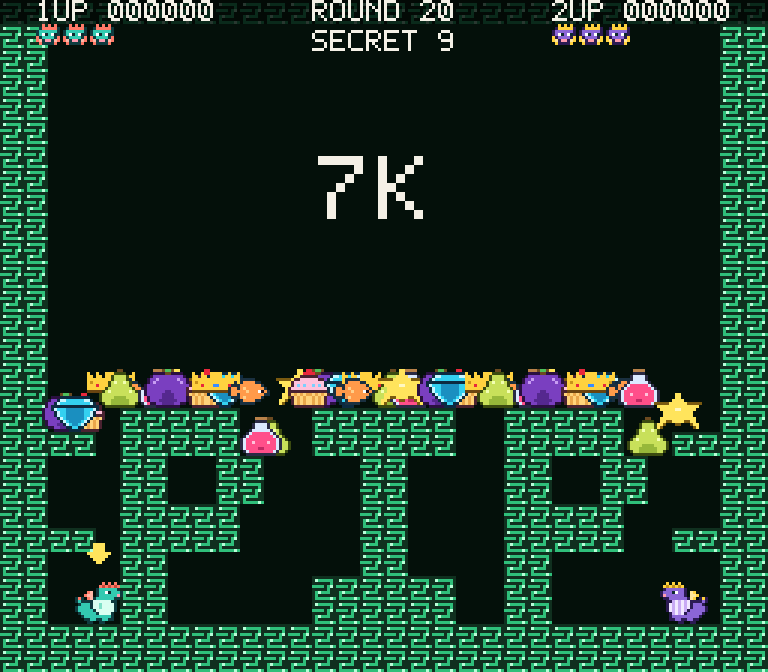
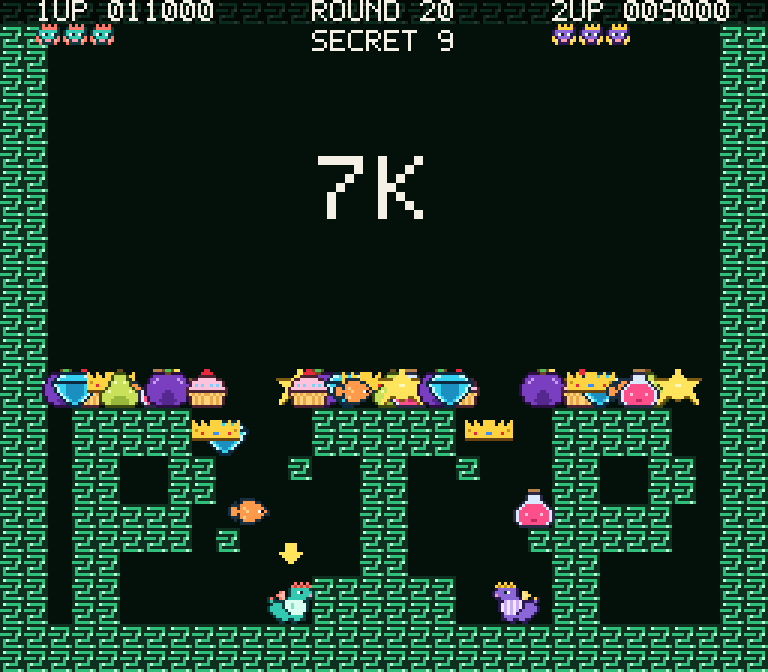
fix: secret rooms have no one-way wells
Wider channels with single-tile stepping ledges leave a free drop lane, and
the reachability test is now a strong-connectivity check on the standing
graph (with a regression fixture for the old PIP layout).

diff --git a/shared/test/secrets.test.ts b/shared/test/secrets.test.ts
@@ -372,6 +372,7 @@ describe("entering and the room", () => {
   it("players can still move and blow harmless bubbles in the room", () => {
     const sim = enterRoom(mkLevels(45));
     const x = sim.state.players[1]!.x;
+    sim.state.players[1]!.y = 60; // open air: a bubble blown on the floor would hit a letter
     run(sim, 10, [0, BTN.F | BTN.L]);
     expect(sim.state.bubbles.length).toBeGreaterThan(0);
     expect(sim.state.players[1]!.x).toBeLessThan(x);
@@ -549,28 +550,46 @@ describe("restore", () => {
 });
 
 /**
- * Reachability by real physics: starting from the spawn points, try short input policies (jump or not,
- * a direction for t1 ticks then another) through `moveBody` exactly as `stepPlayer` drives it, and record every
- * standing position (x in whole px, y exactly on a tile top). Positions closer than 2 px share one expansion.
+ * Standing-position graph by real physics. Nodes are positions where a body rests (integer x, y on a tile top);
+ * edges are what one input policy (walk, or jump then a direction for t1 ticks and another after) reaches
+ * through the sim's own `moveBody`, so walking, jumping, dropping and falling are all covered. `jumpVel` lets
+ * the caller use a weaker jump to demand a safety margin.
  */
-function reachableStands(lv: LevelData, starts: { x: number; y: number }[]): Map<string, { x: number; y: number }> {
-  const seen = new Map<string, { x: number; y: number }>();
-  const expanded = new Set<string>();
-  const queue: { x: number; y: number }[] = [];
-  const add = (x: number, y: number): void => {
-    const k = `${x},${y}`;
-    if (seen.has(k)) return;
-    seen.set(k, { x, y });
-    const bucket = `${Math.floor(x / 2)},${y}`;
-    if (expanded.has(bucket)) return;
-    expanded.add(bucket);
-    queue.push({ x, y });
+interface StandGraph {
+  nodes: Map<string, { x: number; y: number }>;
+  /** Reachable from a spawn. */
+  forward: Set<string>;
+  /** Of those, the ones that can get back to a spawn: the spawn's strongly connected component. */
+  component: Set<string>;
+  /** Reachable but unable to return (one-way traps). */
+  trapped: string[];
+  maxRise: number;
+}
+
+function analyseStands(lv: LevelData, starts: { x: number; y: number }[], jumpVel: number = TUNING.jumpVel): StandGraph {
+  const nodes = new Map<string, { x: number; y: number }>();
+  const out = new Map<string, Set<string>>();
+  const queue: string[] = [];
+  const key = (x: number, y: number): string => `${x},${y}`;
+  const add = (x: number, y: number, from?: string): void => {
+    const k = key(x, y);
+    if (!nodes.has(k)) {
+      nodes.set(k, { x, y });
+      queue.push(k);
+    }
+    if (from !== undefined && from !== k) {
+      let set = out.get(from);
+      if (!set) out.set(from, (set = new Set()));
+      set.add(k);
+    }
   };
+  const startKeys = starts.map((s) => key(s.x, s.y));
   for (const s of starts) add(s.x, s.y);
   const dirs = [-1, 0, 1];
-  const t1s = [0, 10, 20, 30, 40, 50];
+  const t1s = [0, 2, 4, 6, 8, 10, 12, 14, 16, 20, 30, 40, 50];
   const body = { x: 0, y: 0, vx: 0, vy: 0, onGround: true };
-  const simulate = (x: number, y: number, jump: boolean, d1: number, t1: number, d2: number, total: number): void => {
+  let maxRise = 0;
+  const simulate = (from: string, x: number, y: number, jump: boolean, d1: number, t1: number, d2: number, total: number): void => {
     body.x = x;
     body.y = y;
     body.vx = 0;
@@ -579,50 +598,97 @@ function reachableStands(lv: LevelData, starts: { x: number; y: number }[]): Map
     for (let t = 0; t < total; t++) {
       body.vx = (t < t1 ? d1 : d2) * TUNING.walkSpeed;
       if (jump && t === 0) {
-        body.vy = TUNING.jumpVel;
+        body.vy = jumpVel;
         body.onGround = false;
       }
       moveBody(lv, body, PLAYER_SIZE);
       if (body.onGround) {
-        add(Math.round(body.x), body.y);
+        maxRise = Math.max(maxRise, y - body.y);
+        add(Math.round(body.x), body.y, from);
         if (jump) return;
       }
     }
   };
-  while (queue.length > 0) {
-    const s = queue.pop()!;
-    for (const d of dirs) simulate(s.x, s.y, false, d, 200, d, 200);
-    for (const d1 of dirs) for (const d2 of dirs) for (const t1 of t1s) simulate(s.x, s.y, true, d1, t1, d2, 160);
+  for (let i = 0; i < queue.length; i++) {
+    const k = queue[i]!;
+    const s = nodes.get(k)!;
+    for (const d of dirs) simulate(k, s.x, s.y, false, d, 200, d, 200);
+    for (const d1 of dirs) for (const d2 of dirs) for (const t1 of t1s) simulate(k, s.x, s.y, true, d1, t1, d2, 160);
   }
-  return seen;
+  const forward = new Set(nodes.keys());
+  const back = new Map<string, string[]>();
+  for (const [from, tos] of out) {
+    for (const to of tos) {
+      const list = back.get(to);
+      if (list) list.push(from);
+      else back.set(to, [from]);
+    }
+  }
+  const component = new Set<string>(startKeys);
+  const stack = [...startKeys];
+  while (stack.length > 0) {
+    for (const prev of back.get(stack.pop()!) ?? []) {
+      if (!component.has(prev)) {
+        component.add(prev);
+        stack.push(prev);
+      }
+    }
+  }
+  const trapped = [...forward].filter((k) => !component.has(k));
+  return { nodes, forward, component, trapped, maxRise };
 }
 
+/** Height a free jump with `vel` gains, measured by simulating it. */
+function jumpApex(vel: number): number {
+  const floorY = 26 * TILE - PLAYER_SIZE / 2;
+  const body = { x: 60, y: floorY, vx: 0, vy: vel, onGround: false };
+  let top = body.y;
+  for (let t = 0; t < 120; t++) {
+    moveBody(TEST_LEVEL, body, PLAYER_SIZE);
+    top = Math.min(top, body.y);
+  }
+  return floorY - top;
+}
+/** The jump the layouts must be solvable with: at least 4 px weaker than the real one. */
+const MARGIN_JUMP = TUNING.jumpVel + 0.15;
+const startsOf = (room: (typeof SECRET_ROOMS)[number]) =>
+  room.spawn.map((sp) => ({ x: sp.col * TILE + TILE / 2, y: sp.row * TILE + 1 }));
+
 describe("reachability", () => {
+  it("the margin jump really is at least 4 px lower than the real jump", () => {
+    expect(jumpApex(TUNING.jumpVel) - jumpApex(MARGIN_JUMP)).toBeGreaterThanOrEqual(4);
+  });
+
   for (const [i, name] of names.entries()) {
-    it(`room ${name}: every treasure and every usable ledge is reachable by walking and jumping`, () => {
+    it(`room ${name}: the standing graph is strongly connected and every treasure is collectable`, () => {
       const room = SECRET_ROOMS[i]!;
       const lv = room.level;
-      const reach = reachableStands(
-        lv,
-        room.spawn.map((s) => ({ x: s.col * TILE + TILE / 2, y: s.row * TILE + 1 })),
-      );
-      const stands = [...reach.values()];
+      const g = analyseStands(lv, startsOf(room), MARGIN_JUMP);
+      expect(g.trapped.slice(0, 10)).toEqual([]);
+      expect(g.maxRise).toBeLessThanOrEqual(jumpApex(TUNING.jumpVel) - 4);
+      const stands = [...g.component].map((k) => g.nodes.get(k)!);
 
-      // Treasure that has come to rest.
+      // Treasure that has come to rest sits near a standing position of the component.
       const sim = enterRoom(mkLevels(45), [20, 30, 40][i]!);
       run(sim, 300);
-      const reachItem = (t: { x: number; y: number }): boolean =>
-        stands.some((s) => Math.abs(s.x - t.x) < (TUNING.itemSize + PLAYER_SIZE) / 2 && Math.abs(s.y - t.y) < (TUNING.itemSize + PLAYER_SIZE) / 2);
-      const unreachable = treasure(sim.state).filter((t) => !reachItem(t));
-      expect(unreachable.map((t) => `${t.x},${t.y}`)).toEqual([]);
+      const reach = (TUNING.itemSize + PLAYER_SIZE) / 2;
+      const stranded = treasure(sim.state).filter(
+        (t) => !stands.some((s) => Math.abs(s.x - t.x) < reach && Math.abs(s.y - t.y) < reach),
+      );
+      expect(stranded.map((t) => `${t.x},${t.y}`)).toEqual([]);
 
-      // Every standing run (2+ adjacent tile tops with 2 empty rows above) outside sealed pockets.
+      // Every standing run (2+ adjacent tile tops with 2 empty rows above) outside sealed pockets is in the component.
+      // "Open" = covered by a 2x2 empty block reachable from the top-left through 2x2 blocks (slits and sealed pockets are not).
+      const fat = (x: number, y: number): boolean =>
+        x >= 2 && x + 1 < GRID_W - 2 && y >= 0 && y + 1 < GRID_H && !isSolid(lv, x, y) && !isSolid(lv, x + 1, y) && !isSolid(lv, x, y + 1) && !isSolid(lv, x + 1, y + 1);
+      const seen = new Set<string>();
       const open = new Set<string>();
       const stack: [number, number][] = [[2, 1]];
       while (stack.length > 0) {
         const [x, y] = stack.pop()!;
-        if (x < 2 || x >= GRID_W - 2 || y < 0 || y >= GRID_H || isSolid(lv, x, y) || open.has(`${x},${y}`)) continue;
-        open.add(`${x},${y}`);
+        if (!fat(x, y) || seen.has(`${x},${y}`)) continue;
+        seen.add(`${x},${y}`);
+        for (const [cx, cy] of [[x, y], [x + 1, y], [x, y + 1], [x + 1, y + 1]] as const) open.add(`${cx},${cy}`);
         stack.push([x + 1, y], [x - 1, y], [x, y + 1], [x, y - 1]);
       }
       const standable = (tx: number, ty: number): boolean =>
@@ -637,19 +703,57 @@ describe("reachability", () => {
         }
       }
       expect(missed).toEqual([]);
-    }, 60000);
+    }, 120000);
   }
 });
 
 describe("reachability checker sanity", () => {
-  it("reaches a letter top but not a platform floating far above everything (so the check can fail)", () => {
+  it("reaches a letter top but not a platform floating far above everything", () => {
     const room = SECRET_ROOMS[0];
-    const starts = room.spawn.map((sp) => ({ x: sp.col * TILE + TILE / 2, y: sp.row * TILE + 1 }));
-    const tiles = room.level.tiles.map((row, y) => (y === 6 ? row.slice(0, 14) + "####" + row.slice(18) : row));
-    const reach = [...reachableStands({ ...room.level, tiles }, starts).values()];
-    expect(reach.some((p) => p.y === 17 * TILE - PLAYER_SIZE / 2)).toBe(true);
-    expect(reach.some((p) => p.y === 6 * TILE - PLAYER_SIZE / 2)).toBe(false);
-  }, 60000);
+    const tiles = room.level.tiles.map((r, y) => (y === 6 ? r.slice(0, 14) + "####" + r.slice(18) : r));
+    const g = analyseStands({ ...room.level, tiles }, startsOf(room), MARGIN_JUMP);
+    const ys = [...g.nodes.values()].map((p) => p.y);
+    expect(ys).toContain(17 * TILE - PLAYER_SIZE / 2);
+    expect(ys).not.toContain(6 * TILE - PLAYER_SIZE / 2);
+  }, 120000);
+
+  it("reports a deep well as a trap (reachable but impossible to leave)", () => {
+    // Two 9-tile towers with a 2-wide channel between them; the left side has stepping ledges up.
+    const rows: string[] = [];
+    for (let y = 0; y < GRID_H; y++) {
+      const r = Array.from({ length: GRID_W }, (_, x) => (y === 0 || y >= GRID_H - 2 || x < 2 || x >= GRID_W - 2 ? "#" : "."));
+      if (y >= 17 && y <= 25) for (const x of [8, 9, 10, 11, 12, 13, 16, 17, 18, 19, 20, 21]) r[x] = "#";
+      if (y === 22 || y === 18) for (const x of [2, 3, 4]) r[x] = "#";
+      rows.push(r.join(""));
+    }
+    const lv: LevelData = { ...SECRET_ROOMS[0].level, tiles: rows };
+    expect(validateLevel(lv)).toEqual([]);
+    const g = analyseStands(lv, startsOf(SECRET_ROOMS[0]), MARGIN_JUMP);
+    expect(g.trapped.length).toBeGreaterThan(0);
+  }, 120000);
+
+  it("regression: the first PIP layout (open channels down to the floor) fails the strong-connectivity check", () => {
+    const OLD_PIP = [
+      "################################",
+      ...Array.from({ length: 16 }, () => "##............................##"),
+      "##...#####...######..#####....##",
+      "####.#####...######..#####..####",
+      "##...##..##....##....##..##...##",
+      "##...##..##....##....##..##...##",
+      "##...#####.....##....#####....##",
+      "####.#####.....##....#####..####",
+      "##...##........##....##.......##",
+      "##...##......######..##.......##",
+      "##...##......######..##.......##",
+      "################################",
+      "################################",
+    ];
+    const lv: LevelData = { ...SECRET_ROOMS[0].level, tiles: OLD_PIP };
+    expect(validateLevel(lv)).toEqual([]);
+    const oldSpawns = [{ x: 3 * TILE + TILE / 2, y: 25 * TILE + 1 }, { x: 28 * TILE + TILE / 2, y: 25 * TILE + 1 }];
+    const g = analyseStands(lv, oldSpawns, MARGIN_JUMP);
+    expect(g.trapped.length).toBeGreaterThan(0);
+  }, 120000);
 });
 
 describe("source hygiene", () => {
@@ -670,3 +774,4 @@ describe("source hygiene", () => {
     expect(text).not.toMatch(/rng\./);
   });
 });
+

diff --git a/shared/src/levels/secret-rooms.ts b/shared/src/levels/secret-rooms.ts
@@ -22,41 +22,57 @@ const GLYPHS: Record<string, string[]> = {
   B: ["#####.", "#####.", "##..##", "##..##", "#####.", "##..##", "##..##", "#####.", "#####."],
 };
 
-/** Rows 17..25 hold the letters (they stand on the floor, rows 26-27); the first letter starts at column 5. */
+/** Rows 17..25 hold the letters (they stand on the floor, rows 26-27). */
 const LETTER_TOP = 17;
-const FIRST_COL = 5;
-const LETTER_GAP = 2;
-/** Stepping ledges: 2 tiles wide in each side margin, one tile clear of the letters, so every letter top is within a jump of the one below. */
-const LEDGE_ROWS = [22, 18];
+/** One empty slit column (too narrow to enter) on each side, then the letters with CHANNEL-wide channels between them. */
+const FIRST_COL = 3;
+const CHANNEL = 4;
+/**
+ * Each channel gets two single-tile stepping ledges on opposite sides, leaving a 2-tile-wide lane between them so a
+ * player can always drop back down to the floor (a ledge that spans a channel would trap whoever stands on it).
+ * The first ledge is 4 tiles above the floor and the second 3 tiles higher, so every letter top is within a jump.
+ */
+const LOW_LEDGE_ROW = 22;
+const HIGH_LEDGE_ROW = 19;
 
-function buildRoom(word: string, theme: number): LevelData {
+function buildRoom(word: string, theme: number): { level: LevelData; channels: number[] } {
   const grid: string[][] = Array.from({ length: GRID_H }, (_, y) =>
     Array.from({ length: GRID_W }, (_, x) => (y === 0 || y >= GRID_H - 2 || x < 2 || x >= GRID_W - 2 ? "#" : ".")),
   );
   let col = FIRST_COL;
-  for (const ch of word) {
+  const channels: number[] = [];
+  [...word].forEach((ch, i) => {
     const g = GLYPHS[ch]!;
     g.forEach((line, r) => {
       for (let c = 0; c < line.length; c++) if (line[c] === "#") grid[LETTER_TOP + r]![col + c] = "#";
     });
-    col += g[0]!.length + LETTER_GAP;
-  }
-  for (const row of LEDGE_ROWS) {
-    for (const c of [2, 3, GRID_W - 4, GRID_W - 3]) grid[row]![c] = "#";
-  }
-  return { round: 0, theme, tiles: grid.map((r) => r.join("")), enemies: [], drift: [] };
+    col += g[0]!.length;
+    if (i < word.length - 1) {
+      channels.push(col);
+      const left = i % 2 === 0;
+      grid[LOW_LEDGE_ROW]![left ? col : col + CHANNEL - 1] = "#";
+      grid[HIGH_LEDGE_ROW]![left ? col + CHANNEL - 1 : col] = "#";
+      col += CHANNEL;
+    }
+  });
+  return { level: { round: 0, theme, tiles: grid.map((r) => r.join("")), enemies: [], drift: [] }, channels };
 }
 
-const SPAWN: SecretRoom["spawn"] = [
-  { col: 3, row: GRID_H - 3 },
-  { col: GRID_W - 4, row: GRID_H - 3 },
+const PIP = buildRoom("PIP", 3);
+const POP = buildRoom("POP", 6);
+const WEB = buildRoom("WEB", 9);
+
+/** Players start on the floor in the lane of each channel (one per channel). */
+const spawnsOf = (channels: number[]): SecretRoom["spawn"] => [
+  { col: channels[0]! + 1, row: GRID_H - 3 },
+  { col: channels[1]! + 2, row: GRID_H - 3 },
 ];
 
 /** The three treasure rooms, in door order (rounds 20, 30, 40). */
 export const SECRET_ROOMS: readonly [SecretRoom, SecretRoom, SecretRoom] = [
-  { level: buildRoom("PIP", 3), word: "PIP", fragment: "7K", spawn: SPAWN },
-  { level: buildRoom("POP", 6), word: "POP", fragment: "Q3", spawn: SPAWN },
-  { level: buildRoom("WEB", 9), word: "WEB", fragment: "Z8", spawn: SPAWN },
+  { level: PIP.level, word: "PIP", fragment: "7K", spawn: spawnsOf(PIP.channels) },
+  { level: POP.level, word: "POP", fragment: "Q3", spawn: spawnsOf(POP.channels) },
+  { level: WEB.level, word: "WEB", fragment: "Z8", spawn: spawnsOf(WEB.channels) },
 ];
 
 /** The three fragments in room order; a later task combines them into the Super-mode code. */
